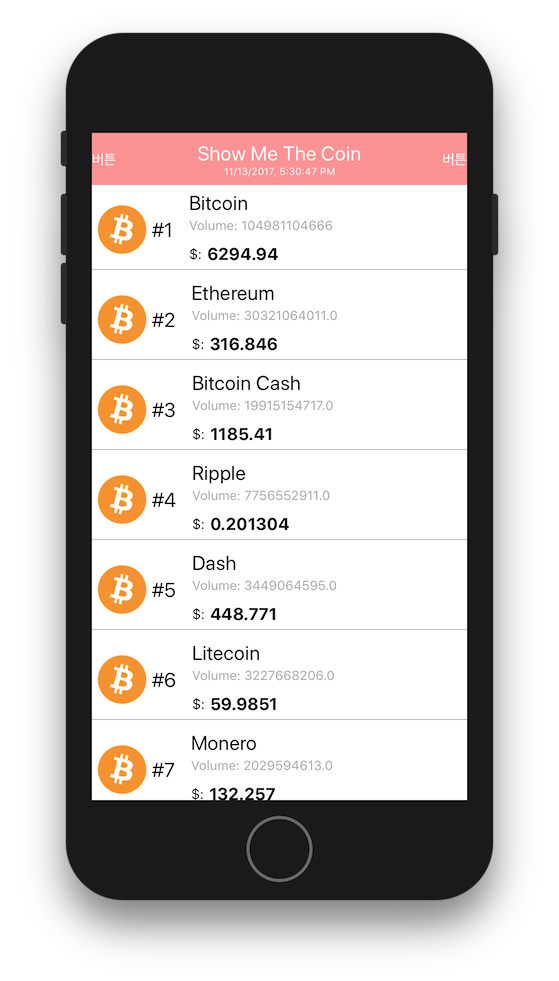
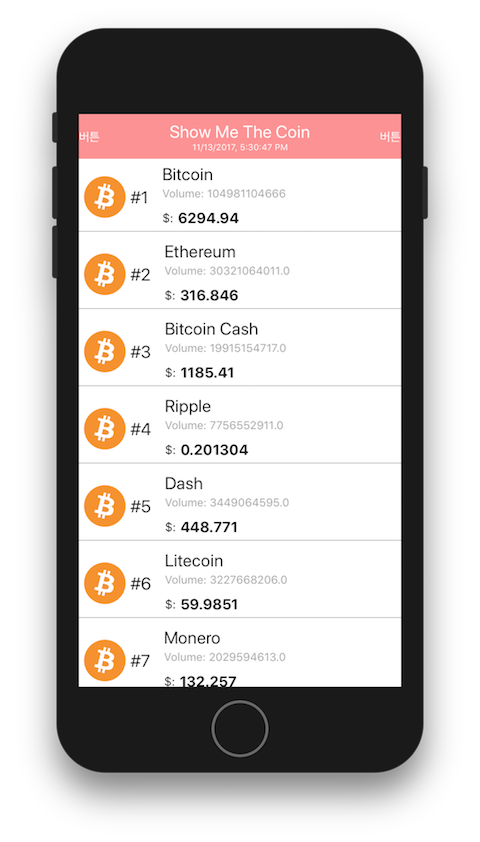
Decrease resolution of screenshots

diff --git a/README.md b/README.md
@@ -1,4 +1,5 @@
-# React Native Tutorial: Show Me The Coin (Build real native application with javascript. )
+# React Native Tutorial: Show Me The Coin
+(Build real native application with javascript, and Run on Expo)
 
 ![final][final]
 
